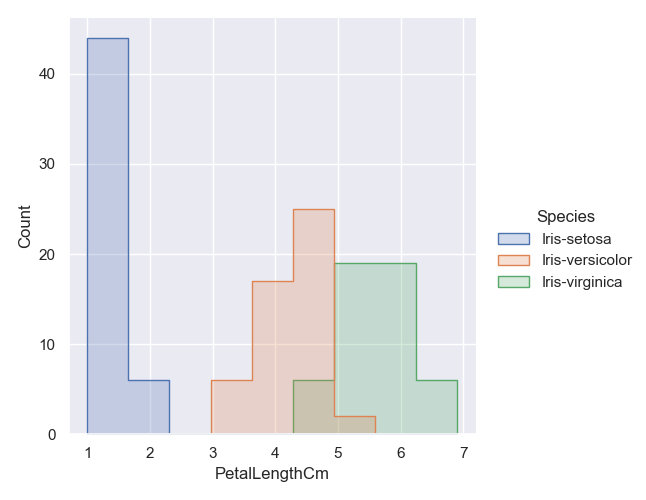
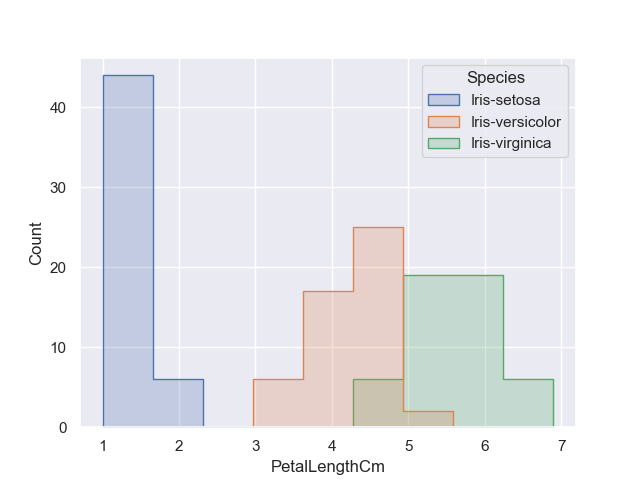
distplot changed to histplot in analysis.py

diff --git a/analysis.py b/analysis.py
@@ -42,25 +42,25 @@ with open ('summaryOfVariables.txt', 'a') as file: # Append mode: 'a' opens file
 
 #Plotting histogram of each variable to png files
 # Histogram for SepalLengthCm
-sns.displot(iris, x="SepalLengthCm", hue="Species", element="step") # https://seaborn.pydata.org/tutorial/distributions.html
+sns.histplot(iris, x="SepalLengthCm", hue="Species", element="step") # https://seaborn.pydata.org/tutorial/distributions.html
 #Save this plot as file
 plt.savefig('PNG/Histogram_Iris-SepalLength.png')   
 plt.show ()
 
 # Histogram for SepalWidthCm
-sns.displot(iris, x="SepalWidthCm", hue="Species", element="step") # element="step" is used to resolve overlapping intervals. (https://seaborn.pydata.org/generated/seaborn.histplot.html)
+sns.histplot(iris, x="SepalWidthCm", hue="Species", element="step") # element="step" is used to resolve overlapping intervals. (https://seaborn.pydata.org/generated/seaborn.histplot.html)
 #Save this plot as file
 plt.savefig('PNG/Histogram_Iris-SepalWidth.png')   
 plt.show ()
 
 # Histogram for PetalLengthCm
-sns.displot(iris, x="PetalLengthCm", hue="Species", element="step") # https://seaborn.pydata.org/tutorial/distributions.html
+sns.histplot(iris, x="PetalLengthCm", hue="Species", element="step") # https://seaborn.pydata.org/tutorial/distributions.html
 #Save this plot as file
 plt.savefig('PNG/Histogram_Iris-PetalLength.png')   
 plt.show ()
 
 # Histogram for PetalWidthCm
-sns.displot(iris, x="PetalWidthCm", hue="Species", element="step") # https://seaborn.pydata.org/tutorial/distributions.html
+sns.histplot(iris, x="PetalWidthCm", hue="Species", element="step") # https://seaborn.pydata.org/tutorial/distributions.html
 #Save this plot as file
 plt.savefig('PNG/Histogram_Iris-PetalWidth.png')   
 plt.show ()

diff --git a/README.md b/README.md
@@ -119,7 +119,7 @@ Once the data has been downloaded and reviewed for accuracy (rows 150 (data entr
 ### Summary of Variables
 
 <div align="justify">
-As part of this project a text file <i>summaryOfVariables.txt</i> has been created. The file holds a summary of each variable (SepalWidth, SepalLength, PetalWidth, PetalLength) and the number of samples available for each species. The text file was created using the module open(filename, access_mode) with the access mode write 'w'. Below is a code extract. Once the file was created the next lines were added by using the access mode append which amends the already existing textfile summaryOfVariables.txt. 
+As part of this project a text file <i>summaryOfVariables.txt</i> has been created. The file holds a summary of each variable (SepalWidth, SepalLength, PetalWidth, PetalLength) and the number of samples available for each species. The text file was created using the module open(filename, access_mode) with the access mode write 'w'. Below is a code extract. Once the file was created the next lines were added by using the access mode append which amends the already existing text file <i>summaryOfVariables.txt</i>. 
 </div>
 
 ```python
@@ -187,8 +187,10 @@ The below Histograms have been created using the seaborn library with the x valu
 
 <div align="justify">
 Each plot has been saved to the folder PNG on the repository using matplotlib. Seaborn as earlier describes translates the plot created into arguments that matplotlib understands. 
-Every time the program runs the plots are shown one after another. The program completes each line from top to bottom, but each plot opened will need to be closed before the program will continue to the next plot. The plot are displayed every time the program is executed via the terminal using the command <i>python .\analysis.py</i>. 
-iris is the dataset used, while in the case of the code example about the x-axis displays the values for SepalLenthCm. The hue parameter groups variables in this case the categorical group Species which will produce points with different colours (iris-setosa = blue, iris-versicolor = red, iris virginica = green). The element
+Every time the program runs the plots are shown one after another. The program completes each line from top to bottom, but each plot opened will need to be closed before the program will continue to the next plot. The plots are displayed every time the program is executed via the terminal using the command <i>python .\analysis.py</i>. 
+<i>iris</i> is the dataset used, while in the case of the code example the x-axis displays the values for SepalLenthCm. 
+The hue parameter determines which column of the dataset, in case of the project the categorical group species,  is used for colour coding (iris-setosa = blue, iris-versicolor = red, iris virginica = green). [21]
+The avoid not to be able to see each histogram of the three variables the element="step" parameter was assigned. This draws a step function and therefore overlapping graphs are visible. 
 The function displot() is used and  (https://seaborn.pydata.org/generated/seaborn.distplot.html?highlight=distplot)
 
 In this project the general style for all graphs using the seaborn library was set, see code below:
@@ -348,6 +350,8 @@ By Michael R. Berthold, Christian Borgelt, Frank Höppner, Frank Klawonn, Spring
 [19] [Standard deviation](https://www.dummies.com/education/math/statistics/how-to-interpret-standard-deviation-in-a-statistical-data-set/)
 
 [20] [Python](https://books.google.ie/books?id=f1F1CgAAQBAJ&printsec=frontcover&dq=python+data+analysis&hl=en&sa=X&ved=2ahUKEwjou6yhx6PwAhVxo3EKHRt4AZQQ6AEwBHoECAQQAg#v=onepage&q=python%20data%20analysis&f=false)
+
+[21] [Hue](https://datascience.stackexchange.com/questions/46117/meaning-of-hue-in-seaborn-barplot#:~:text=In%20seaborn%2C%20the%20hue%20parameter,provided%20an%20example%20for%20this.&text=Adding%20%60hue%3D%22smoker%22,smoker%20and%20non%2Dsmoker%20differently.)
 
 ### PNG references 
 [i] [Iris flower](https://towardsdatascience.com/the-iris-dataset-a-little-bit-of-history-and-biology-fb4812f5a7b5) 
